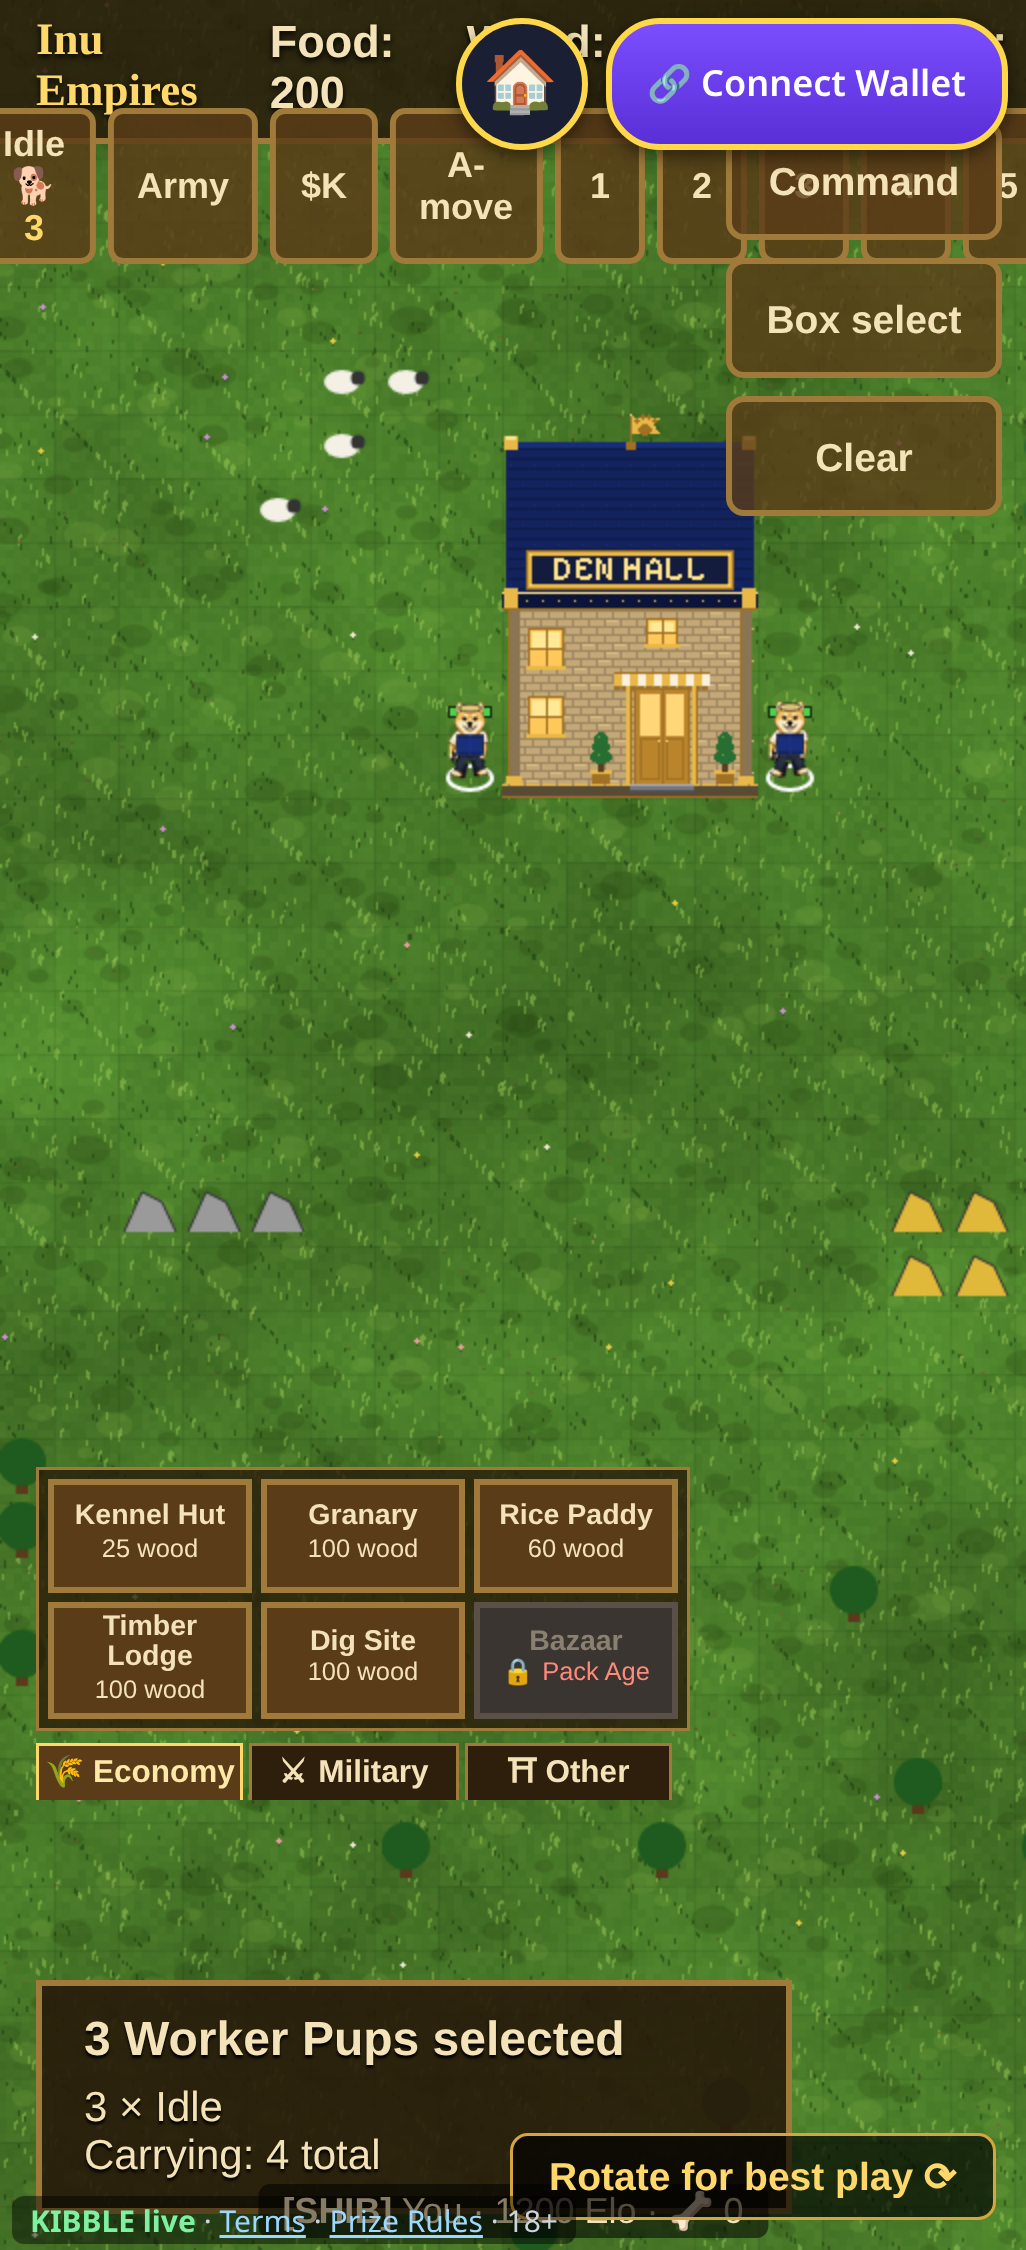
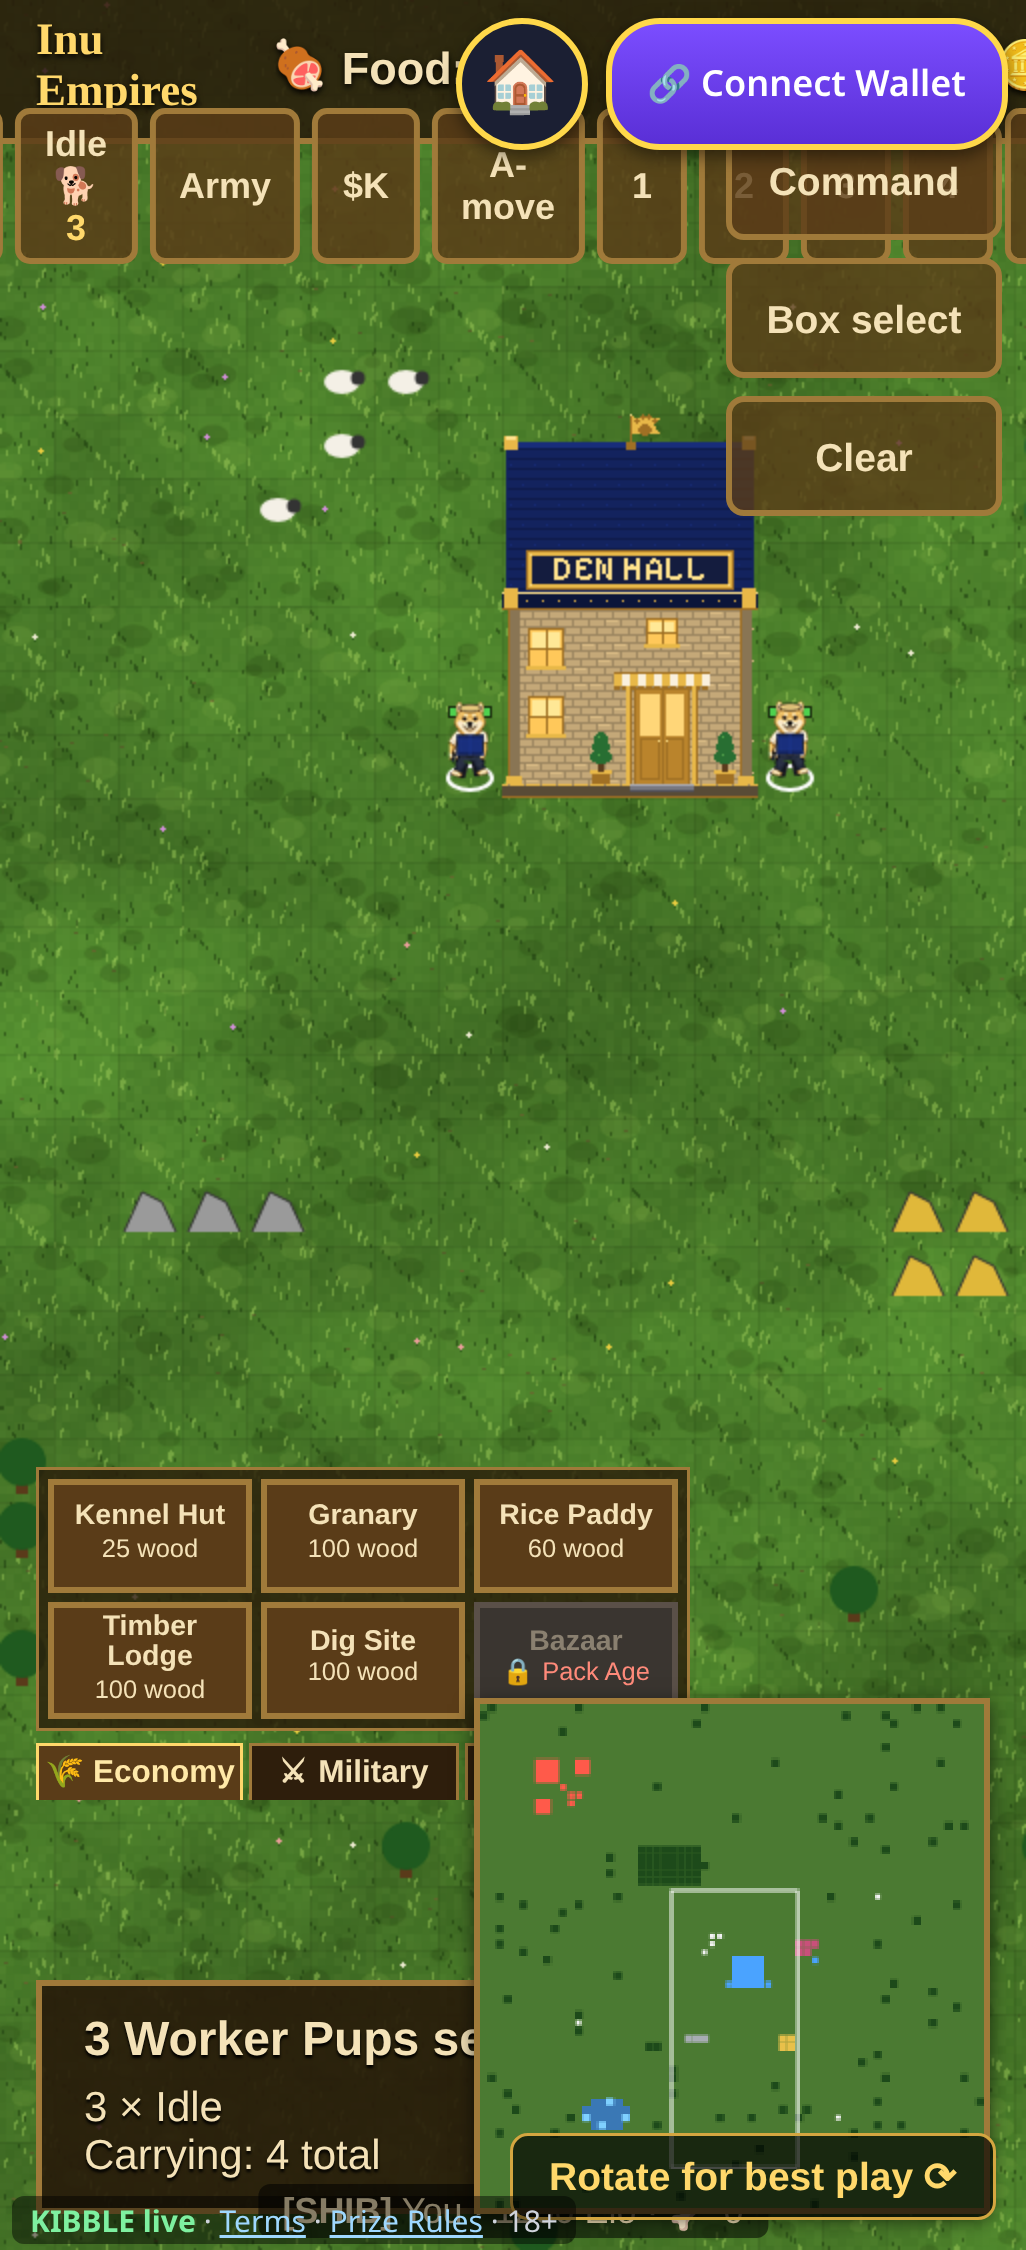
Phase 4 follow-up: info panel sits above the KIBBLE footer in phone landscape; proof/ship-upg1-3.log (preview verified -> prod be15aa8)

diff --git a/index.html b/index.html
@@ -72,7 +72,7 @@ html,body{position:fixed;inset:0;overscroll-behavior:none}
  #hud .lbl{position:absolute;width:1px;height:1px;overflow:hidden;clip:rect(0 0 0 0);white-space:nowrap}#hud #civ{display:none}#hud #age{margin-left:6px}
  #msg{top:30px;font-size:13px}#banner{font-size:20px;padding:10px 24px}#net{top:28px;font-size:10px}
  #minimap{left:max(8px,env(safe-area-inset-left));right:auto;bottom:max(26px,env(safe-area-inset-bottom));width:104px;height:104px}
- body.ingame #info{left:calc(max(8px,env(safe-area-inset-left)) + 114px)}
+ body.ingame #info{left:calc(max(8px,env(safe-area-inset-left)) + 114px);bottom:max(26px,env(safe-area-inset-bottom))}
  #info{left:max(8px,env(safe-area-inset-left));bottom:max(8px,env(safe-area-inset-bottom));min-width:170px;max-width:30vw;max-height:calc(100vh - 60px);overflow:hidden;font-size:12px;padding:6px 10px}#info b{font-size:13px}
  #commands{left:auto;right:max(8px,env(safe-area-inset-right));bottom:max(8px,env(safe-area-inset-bottom));max-height:calc(100vh - 190px);overflow-y:auto;flex-wrap:wrap;align-content:flex-start;width:min(348px,calc(100vw - 32vw - 30px));gap:3px!important}
  #commands button{width:84px;font-size:10px!important;padding:2px 3px!important}#commands button small{font-size:9px}#commands .bgrid{grid-template-columns:repeat(3,1fr)}#commands .bgrid button{width:auto}
